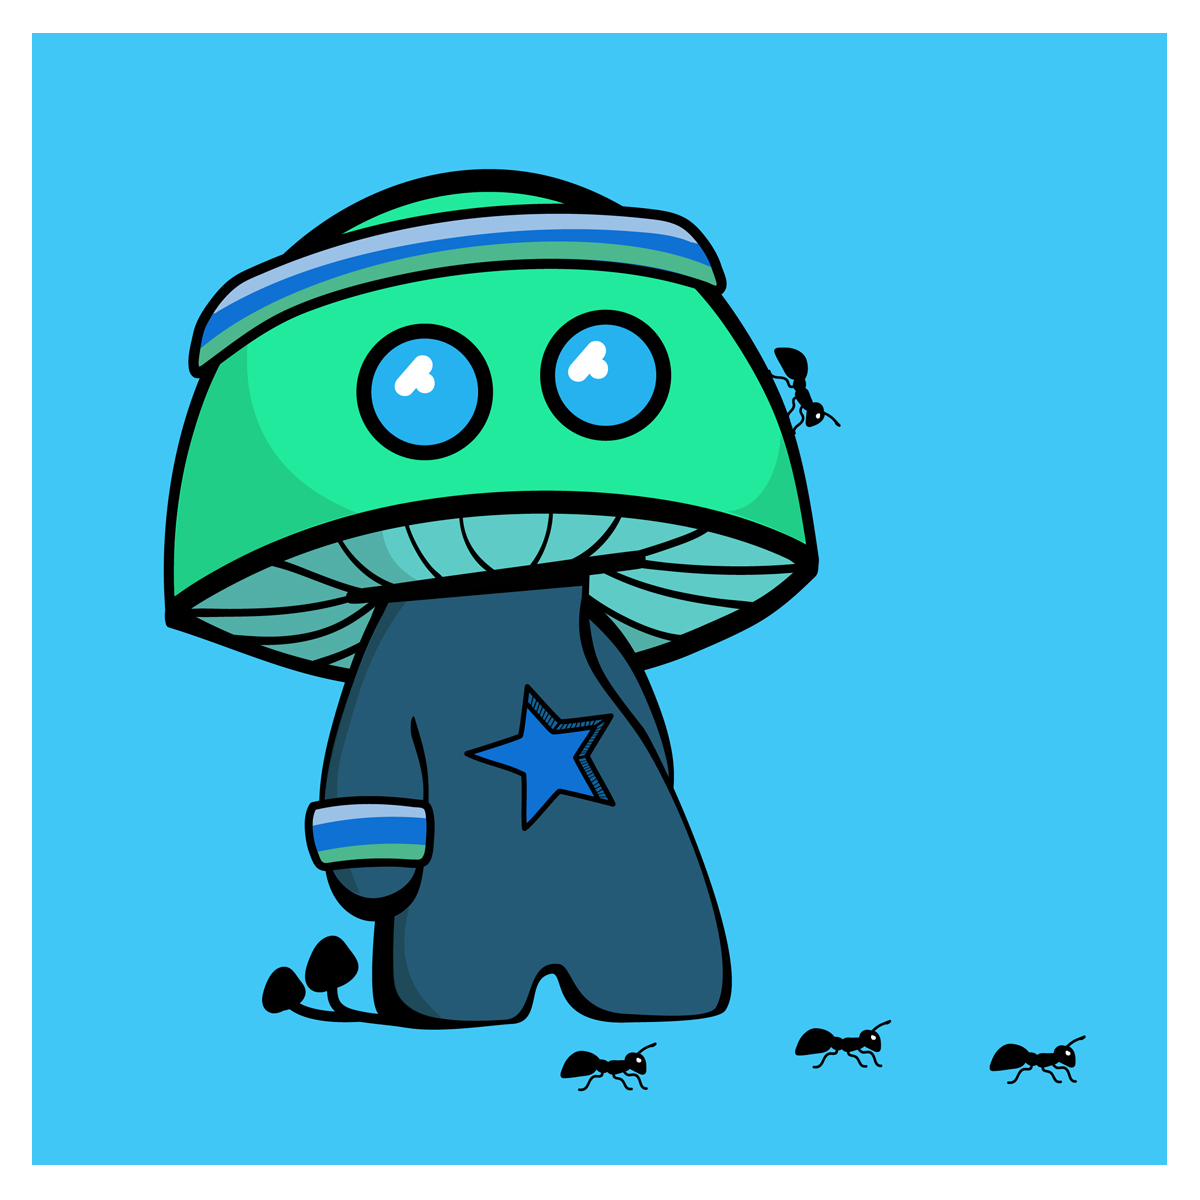
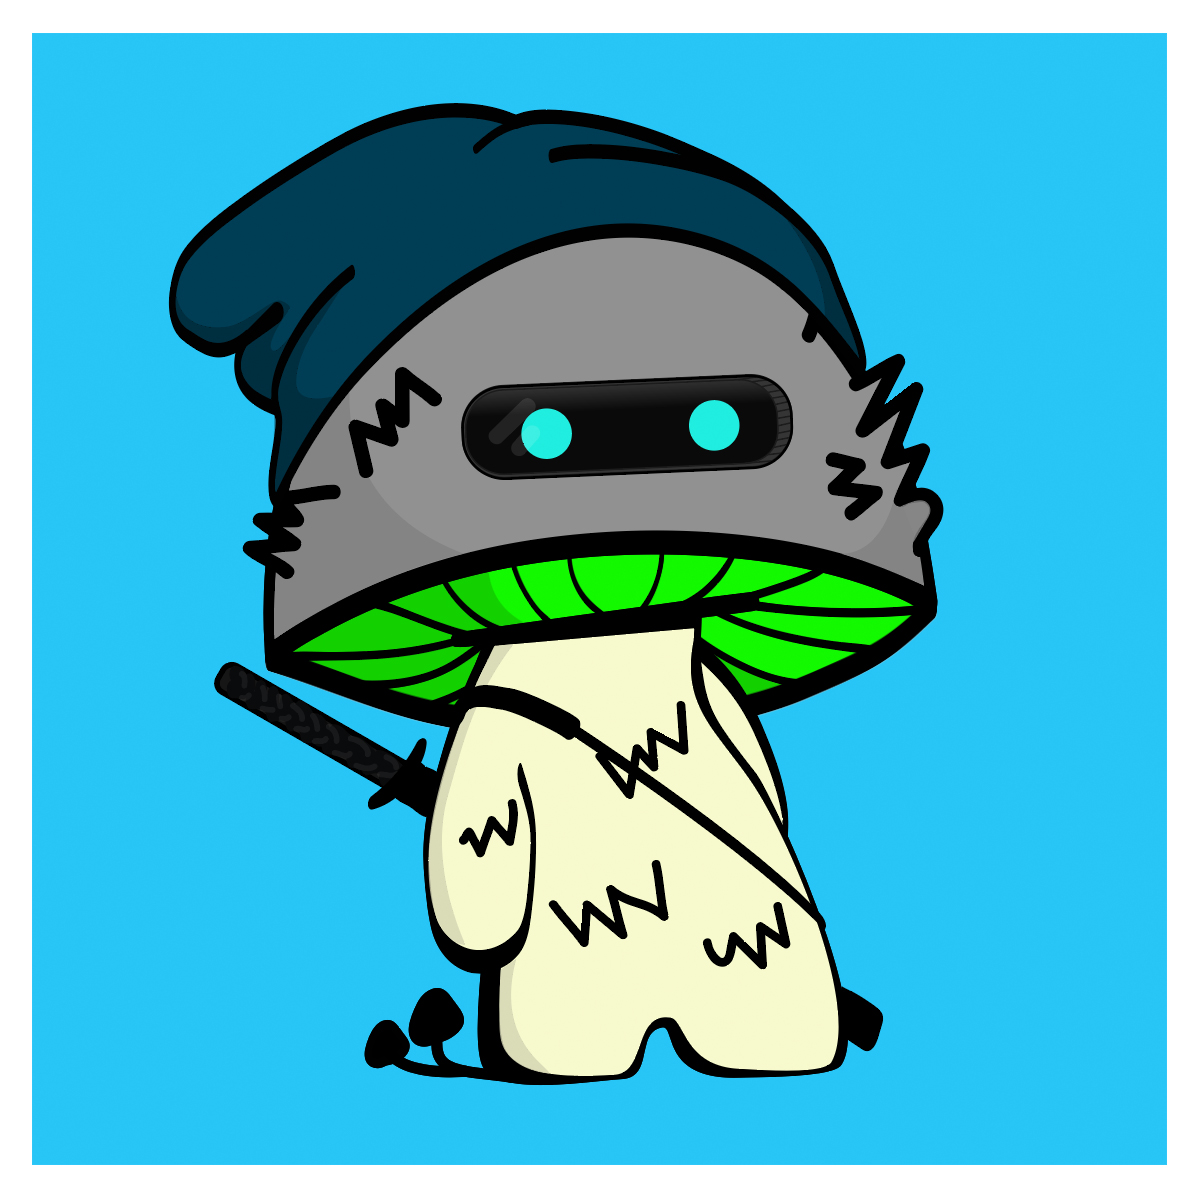
Updates text and images

diff --git a/Web/src/pages/Main/Sections/FAQ.tsx b/Web/src/pages/Main/Sections/FAQ.tsx
@@ -12,35 +12,35 @@ interface FAQItem {
 const FAQItems: FAQItem[] = [
     {
         title: 'When do Shroomies drop?',
-        body: `Early Q1 2022 we will begin dropping the Shroomies Mud Club NFT’s.`,
+        body: `Early Q1 2022 we will begin dropping the Shroomies Mud Club NFTs.`,
     },
     {
         title: 'How many variations and traits do the Shroomies have?',
-        body: `The Night Shrooms have 11 trait categories and 200+ traits. Shroomies have 11 trait categories and 300+ traits.`,
+        body: `The Night Shrooms have 14 trait categories and 220 traits. Shroomies have 20 trait categories and 400 traits.`,
     },
     {
         title: 'How are you giving back?',
-        body: `We have partnered with …. giving a portion of each sale back to the …. to further research into the medical benefits of mushrooms and facilitate healing of the agriculture and bee community through the use of mushrooms.`,
+        body: `We have identified non profit and research groups doing important work in mycology. We will be working with our community to support and promote these entities.`,
     },
     {
-        title: 'What are The Night Shrooms VIP Pass NFT’s?',
-        body: `Holders of The Night Shrooms get exclusive presale access to main drops, a free mint of the main Shroomie drop, access to special roles and voting privileges.`,
+        title: 'How are The Night Shrooms different from regular Shroomies in the collection?',
+        body: `The Night Shrooms are an early release part of the main Shroomie collection. They have darker environments and often glowing traits. Holders of The Night Shrooms get exclusive presale access to main drops, a free mint of the main Shroomie drop, access to special roles and voting privileges.`,
     },
     {
-        title: 'How many NFT’s are in each drop?',
-        body: `First, we will release 888 Night Shrooms. Then, we will have our main drop of 8000 Shroomies.`,
+        title: 'How many NFTs are in each drop?',
+        body: `The Night Shrooms will be a total 888 with an additional 8000 Shroomies for the remainder of the collection. Total collection once fully minted out will be 8888.`,
     },
     {
-        title: 'How much do these NFT’s cost?',
+        title: 'How much do these NFTs cost?',
         body: `The Night Shrooms will drop at 0.038 ETH. The Shroomies drop price is 0.048 ETH.`,
     },
     {
         title: 'How do we get our Shroomies?',
-        body: `You can mint directly at mint.shroomiesmudclub.io. The Night Shroom drops are limited to 2 per wallet and the Shroomie drop is limited to 5 per wallet.`,
+        body: `You can mint directly at mint.shroomiesmudclub.io. The Night Shroom drops are limited to 2 per transaction and the Shroomie drop is limited to 20 per transaction.`,
     },
     {
         title: 'What are the long-term plans?',
-        body: `We are in the early stages of planning a physical card/board game. We will utilize our community to help drive the project direction.`,
+        body: `Initially our focus will be on our two main roadmap initiatives which include partnering with fungi experts and creating a thriving community built around mushroom awareness, education and IRL events. Additionally, we’ll begin to work on our physical card and board game with our community. As progress is made on those key goals, we envision launching an online game that would complement the physical game and a companion drop born out of the game design process.`,
     },
 ];
 

diff --git a/Web/src/index.tsx b/Web/src/index.tsx
@@ -12,7 +12,6 @@ import {
     ShroomieContextType,
 } from './contexts/ShroomieContext';
 import { defaultTheme, ThemeContextProvider } from './contexts/ThemeContext';
-import { TransactionContextProvider } from './contexts/TransactionContext';
 import 'react-toastify/dist/ReactToastify.css';
 import './styles/global.css';
 import ShroomRouter from './routing/ShroomRouter';
@@ -54,32 +53,30 @@ const Root = (): JSX.Element => {
     return (
         <MuiThemeProvider theme={theme}>
             <ScrollingProvider>
-                <TransactionContextProvider>
-                    <Provider value={styletron}>
-                        <ThemeContextProvider value={defaultTheme}>
-                            <HashRouter>
-                                <ShroomieContextProvider
-                                    value={{
-                                        openseaUrl,
-                                        api,
-                                        etherscanUrl,
-                                        chainId,
-                                        tokenContractAddress,
-                                        discordUrl,
-                                        twitterUrl,
-                                    }}
-                                >
-                                    <>
-                                        <Header />
-                                        <ToastContainer position="bottom-left" />
-                                        <ShroomRouter />
-                                        <Footer />
-                                    </>
-                                </ShroomieContextProvider>
-                            </HashRouter>
-                        </ThemeContextProvider>
-                    </Provider>
-                </TransactionContextProvider>
+                <Provider value={styletron}>
+                    <ThemeContextProvider value={defaultTheme}>
+                        <HashRouter>
+                            <ShroomieContextProvider
+                                value={{
+                                    openseaUrl,
+                                    api,
+                                    etherscanUrl,
+                                    chainId,
+                                    tokenContractAddress,
+                                    discordUrl,
+                                    twitterUrl,
+                                }}
+                            >
+                                <>
+                                    <Header />
+                                    <ToastContainer position="bottom-left" />
+                                    <ShroomRouter />
+                                    <Footer />
+                                </>
+                            </ShroomieContextProvider>
+                        </HashRouter>
+                    </ThemeContextProvider>
+                </Provider>
             </ScrollingProvider>
         </MuiThemeProvider>
     );

diff --git a/Web/src/pages/Main/Sections/JoinOurCommunity.tsx b/Web/src/pages/Main/Sections/JoinOurCommunity.tsx
@@ -52,27 +52,27 @@ export const JoinOurCommunity = (): JSX.Element => {
                         },
                     })}
                 >
-                    Join the <b>#SHROOMIESMUDCLUB</b> a hub for education,
-                    awareness giving back.
+                    Join the <b>#SHROOMIESMUDCLUB</b>: a hub for education,
+                    awareness, & giving back.
                 </div>
                 <br />
                 <div>
                     <div>
                         We are bringing the FUNGI WORLD of mushroom experts,
-                        enthusiasts and communities together on one server!
+                        enthusiasts, and communities together on one server!
                         Check out our Discord featuring the world’s leading
-                        mycologists and organizations related to Fungi with
+                        mycologists and organizations related to fungi with
                         weekly AMA, Twitter Spaces, and dedicated channels
-                        communities focused on fungi topics, including cooking,
-                        health, and foraging.
+                        focused on fungi topics, including cooking, health,
+                        foraging, and more!
                     </div>
                     <br />
                     <div>
                         Get the latest announcements about community,
-                        partnerships, physical game development, contests,
-                        giveaways, and more! Holders of Shroomies Mud Club NFT’s
-                        get special community privileges! Learn more on our
-                        Discord server.
+                        partnerships, physical game development, contests, and
+                        giveaways! Holders of Shroomies Mud Club NFTs get
+                        special community privileges! Learn more on our Discord
+                        server.
                     </div>
                 </div>
                 <div

diff --git a/Web/src/pages/Main/Sections/NightShrooms.tsx b/Web/src/pages/Main/Sections/NightShrooms.tsx
@@ -52,9 +52,9 @@ export const NightShroomSection = (): JSX.Element => {
                         maxWidth: '700px',
                     })}
                 >
-                    The Night Shrooms are a limited edition, pre-release,
-                    Shroomie drop with tons of community utility - plus receive
-                    a FREE mint!
+                    The Night Shrooms are a limited edition drop ahead of the
+                    main collection that rewards early supporters with tons of
+                    utility - plus a FREE Shroomie mint!
                 </div>
                 <div
                     className={css({
@@ -66,16 +66,15 @@ export const NightShroomSection = (): JSX.Element => {
                     })}
                 >
                     <ul className={css({ margin: '20px' })}>
-                        <li>Free mint of the main Shroomies drop</li>
+                        <li>One FREE mint of the main Shroomies drop</li>
                         <li>Presale access to main drop</li>
-                        <li>Part of our physical game design committee</li>
                         <li>Special discord role + exclusive giveaways</li>
+                        <li>Priority access to whitelist from partners</li>
                     </ul>
                     <ul className={css({ margin: '20px' })}>
-                        <li>Priority access to whitelist from partners</li>
                         <li>Free mints on future drops</li>
                         <li>ONLY 888 will exist ever!</li>
-                        <li>Included in the main collection (high rarity)</li>
+                        <li>Included in the main collection</li>
                     </ul>
                 </div>
             </div>

diff --git a/Web/src/pages/Main/Sections/Shroomies.tsx b/Web/src/pages/Main/Sections/Shroomies.tsx
@@ -1,7 +1,7 @@
 import React from 'react';
 import { useStyletron } from 'styletron-react';
 import { useThemeContext } from '../../../contexts/ThemeContext';
-import Shroomies from '../../../assets/images/SHROOMIES/SHROOMIE_MAIN_IMG4.png';
+import Shroomies from '../../../assets/images/SHROOMIES/SHROOMIE_MAIN_IMG_V3.png';
 import { MOBILE } from '../../../utilties/MediaQueries';
 
 export const ShroomiesSection = (): JSX.Element => {
@@ -54,7 +54,7 @@ export const ShroomiesSection = (): JSX.Element => {
                         fontWeight: 'bold',
                     })}
                 >
-                    Coming Soon! Main Drop Q1 2022!
+                    Coming Soon!
                 </div>
                 <div
                     className={css({
@@ -62,9 +62,10 @@ export const ShroomiesSection = (): JSX.Element => {
                         marginBottom: '30px',
                     })}
                 >
-                    Welcome to Shroomies Mud Club! Here you find curiously
-                    evolving troops of unearthed magical, edible, walking,
-                    talking, and sometimes roguish little mushrooms.
+                    The main collection of Shroomies Mud Club - powerful
+                    Shroomies from almost 400 traits! Holders of Shroomies Mud
+                    Club NFTs will enter a fantastic world of community
+                    building, education, and games!
                 </div>
             </div>
             <div

diff --git a/Web/src/pages/Main/Sections/CheckUsOut.tsx b/Web/src/pages/Main/Sections/CheckUsOut.tsx
@@ -9,6 +9,7 @@ import Shroom5 from '../../../assets/images/CHECK US OUT/CHECK5.jpg';
 import Shroom6 from '../../../assets/images/CHECK US OUT/CHECK6.jpg';
 import Shroom7 from '../../../assets/images/CHECK US OUT/CHECK7.jpg';
 import Shroom8 from '../../../assets/images/CHECK US OUT/CHECK8.jpg';
+import Shroom9 from '../../../assets/images/CHECK US OUT/CHECK9.png';
 
 export const CheckUsOutSection = (): JSX.Element => {
     const [css] = useStyletron();
@@ -56,10 +57,15 @@ export const CheckUsOutSection = (): JSX.Element => {
                     <img src={Shroom7} alt="Shroom" className={imageClass} />
                     <img src={Shroom4} alt="Shroom" className={imageClass} />
                     <img src={Shroom3} alt="Shroom" className={imageClass} />
+                    <img
+                        src={Shroom9}
+                        alt="Night Shroom"
+                        className={imageClass}
+                    />
                     <img src={Shroom5} alt="Shroom" className={imageClass} />
                     <img src={Shroom6} alt="Shroom" className={imageClass} />
-                    <img src={Shroom1} alt="Shroom" className={imageClass} />
                     <img src={Shroom8} alt="Shroom" className={imageClass} />
+                    <img src={Shroom1} alt="Shroom" className={imageClass} />
                 </div>
             </div>
         </div>

diff --git a/Web/src/pages/Main/Sections/MintNightShrooms.tsx b/Web/src/pages/Main/Sections/MintNightShrooms.tsx
@@ -72,15 +72,15 @@ export const MintNightShroomsSection = (): JSX.Element => {
                     </div>
                     <div className={css({ margin: '10px' })}>
                         <div className={titleStyle}>Traits:</div>
-                        <div className={bodyStyle}>180+</div>
+                        <div className={bodyStyle}>220</div>
                     </div>
                     <div className={css({ margin: '10px' })}>
                         <div className={titleStyle}>Trait Categories:</div>
-                        <div className={bodyStyle}>11</div>
+                        <div className={bodyStyle}>14</div>
                     </div>
                     <div className={css({ margin: '10px' })}>
                         <div className={titleStyle}>Price:</div>
-                        <div className={bodyStyle}>0.03 ETH</div>
+                        <div className={bodyStyle}>0.038 ETH</div>
                     </div>
                 </div>
             </div>

diff --git a/Web/src/pages/Main/Sections/MintShroomies.tsx b/Web/src/pages/Main/Sections/MintShroomies.tsx
@@ -72,15 +72,15 @@ export const MintShroomiesSection = (): JSX.Element => {
                     </div>
                     <div className={css({ margin: '10px' })}>
                         <div className={titleStyle}>Traits:</div>
-                        <div className={bodyStyle}>300+</div>
+                        <div className={bodyStyle}>400</div>
                     </div>
                     <div className={css({ margin: '10px' })}>
                         <div className={titleStyle}>Trait Categories:</div>
-                        <div className={bodyStyle}>11</div>
+                        <div className={bodyStyle}>20</div>
                     </div>
                     <div className={css({ margin: '10px' })}>
                         <div className={titleStyle}>Price:</div>
-                        <div className={bodyStyle}>TBD</div>
+                        <div className={bodyStyle}>0.048 ETH</div>
                     </div>
                 </div>
             </div>

diff --git a/Web/src/pages/Main/Sections/OurTeam.tsx b/Web/src/pages/Main/Sections/OurTeam.tsx
@@ -63,13 +63,13 @@ export const OurTeamSection = (): JSX.Element => {
                                 marginBottom: '20px',
                             })}
                         >
-                            THE PIXEL MAVEN
+                            HELLA SHROOM
                         </div>
                         <div className={css({ marginBottom: '20px' })}>
                             Co-Creator, and Design Director, illustrator and
                             artist. 20 years in media design across the digital
                             and physical space and an early metaverse
-                            evangelist. 80’s punk maven. Boy mom. Dog mom.
+                            evangelist. ‘80s punk maven. Boy mom. Dog mom.
                         </div>
                     </div>
                     <div

diff --git a/Web/src/pages/Main/Sections/Landing.tsx b/Web/src/pages/Main/Sections/Landing.tsx
@@ -52,6 +52,8 @@ export const Landing = (): JSX.Element => {
                 className={css({
                     maxWidth: '1400px',
                     width: '100%',
+                    display: 'flex',
+                    justifyContent: 'center',
                 })}
             >
                 <img
@@ -74,7 +76,7 @@ export const Landing = (): JSX.Element => {
                         [MOBILE]: {
                             display: 'block',
                         },
-                        width: '100%',
+                        width: '110%',
                         height: 'auto',
                     })}
                 />

diff --git a/Web/src/pages/Main/Sections/Welcome.tsx b/Web/src/pages/Main/Sections/Welcome.tsx
@@ -76,8 +76,8 @@ export const WelcomeSection = (): JSX.Element => {
                         Bleweit, Indigo Milk Cap, Golden Scruffy, Magic
                         Mushroom, and more! Our primary focus is to raise
                         awareness of the underrated benefits of mushrooms for
-                        the mind, body, and vital to environmental ecosystems.
-                        Join us!
+                        the mind, body, and our environmental ecosystems. Join
+                        us!
                     </div>
                 </div>
             </div>

diff --git a/Web/src/hooks/useMintStatus.ts b/Web/src/hooks/useMintStatus.ts
@@ -16,11 +16,16 @@ export const useMintStatus = (): MintStatus => {
     const { startDate, endDate } = useMintDetails('presale');
 
     React.useEffect(() => {
+        if (!tokenContract) {
+            setMainMinting(false);
+            return;
+        }
+
         tokenContract.methods
             .mainCollectionMinting()
             .call()
             .then(setMainMinting);
-    }, [tokenContract.methods]);
+    }, [tokenContract]);
 
     const isWhitelist = React.useMemo(
         () => time > startDate && time < endDate,
